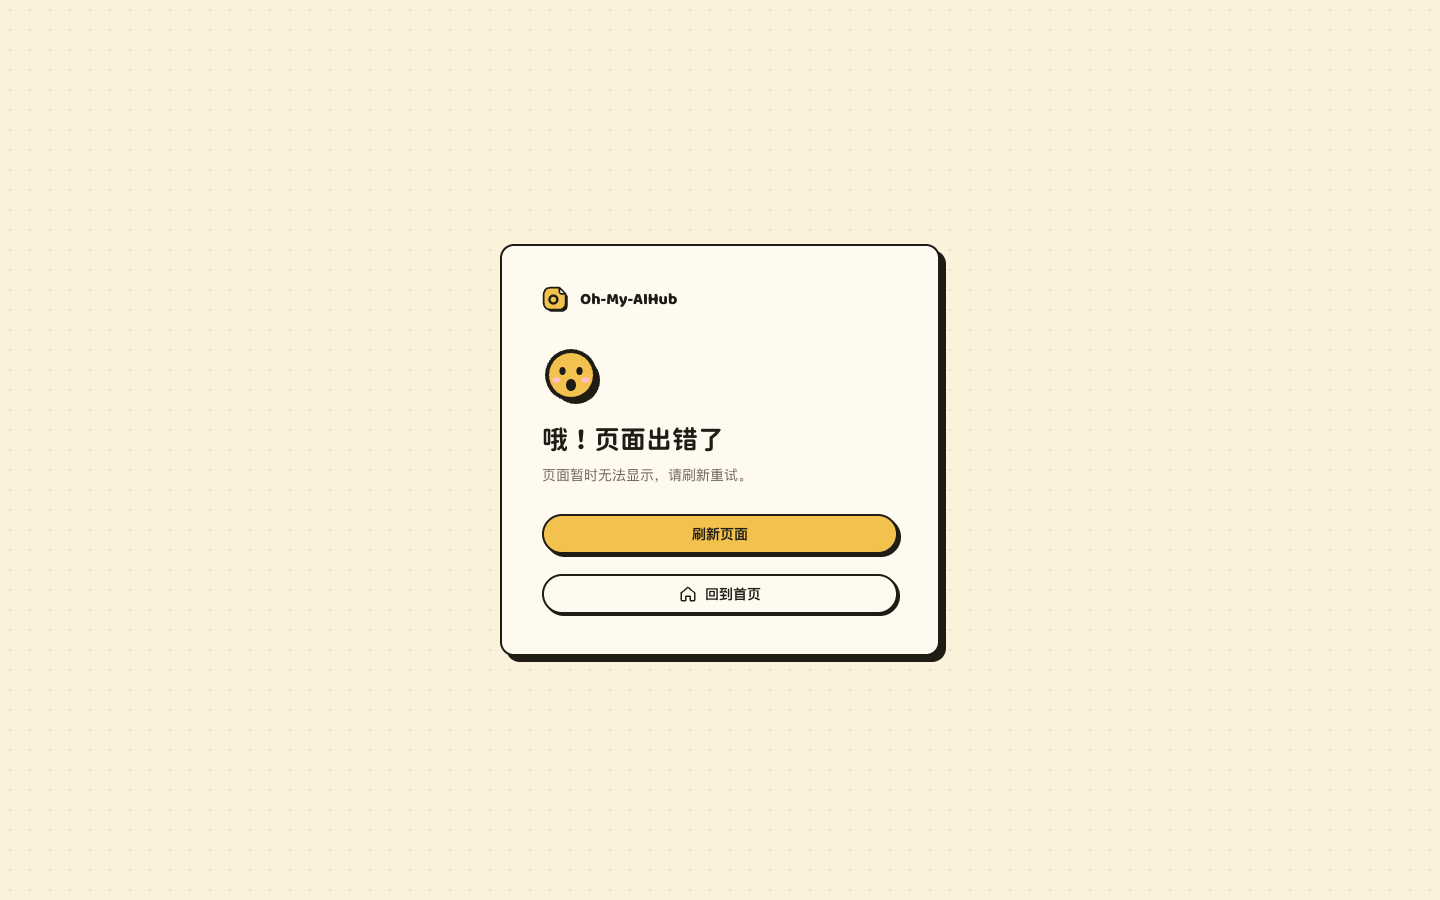
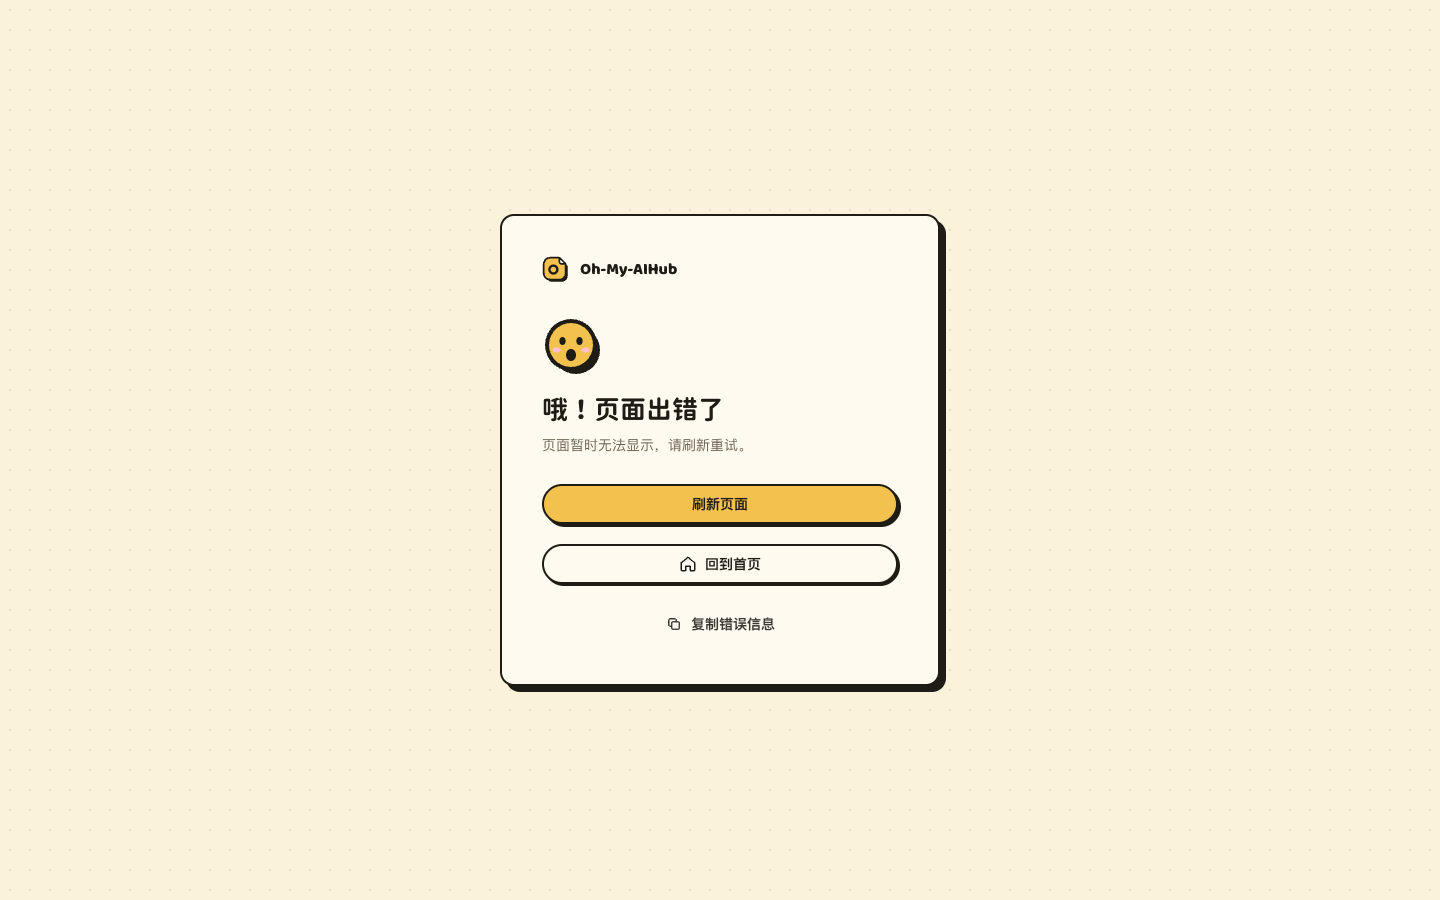
fix: allow copying route error stack details

Changed region(s): [[0.3438, 0.28, 0.6562, 0.7778], [0.625, 0.2489, 0.6562, 0.28], [0.3438, 0.2489, 0.375, 0.28]]

diff --git a/frontend/src/layouts/RouteErrorPage.tsx b/frontend/src/layouts/RouteErrorPage.tsx
@@ -1,8 +1,16 @@
 import { useEffect } from 'react'
-import { Button, ButtonLink, Icon } from '../ui'
+import { isRouteErrorResponse, useRouteError } from 'react-router-dom'
+import { Button, ButtonLink, CopyButton, Icon } from '../ui'
 import { AuthShell } from './AuthShell'
 
 export function RouteErrorPage() {
+  const error = useRouteError()
+  const errorDetails = error instanceof Error
+    ? error.stack || `${error.name}: ${error.message}`
+    : isRouteErrorResponse(error)
+      ? `${error.status} ${error.statusText}\n${typeof error.data === 'string' ? error.data : JSON.stringify(error.data, null, 2)}`
+      : String(error ?? '未知错误')
+
   useEffect(() => {
     const previousTitle = document.title
     document.title = '页面出错了 · Oh-My-AIHub'
@@ -16,6 +24,7 @@ export function RouteErrorPage() {
       <div className="identity-form">
         <Button onClick={() => window.location.reload()} type="button">刷新页面</Button>
         <ButtonLink icon={<Icon name="home" />} reloadDocument to="/">回到首页</ButtonLink>
+        <CopyButton label="复制错误信息" size="md" value={errorDetails} variant="quiet" />
       </div>
     </AuthShell>
   )
